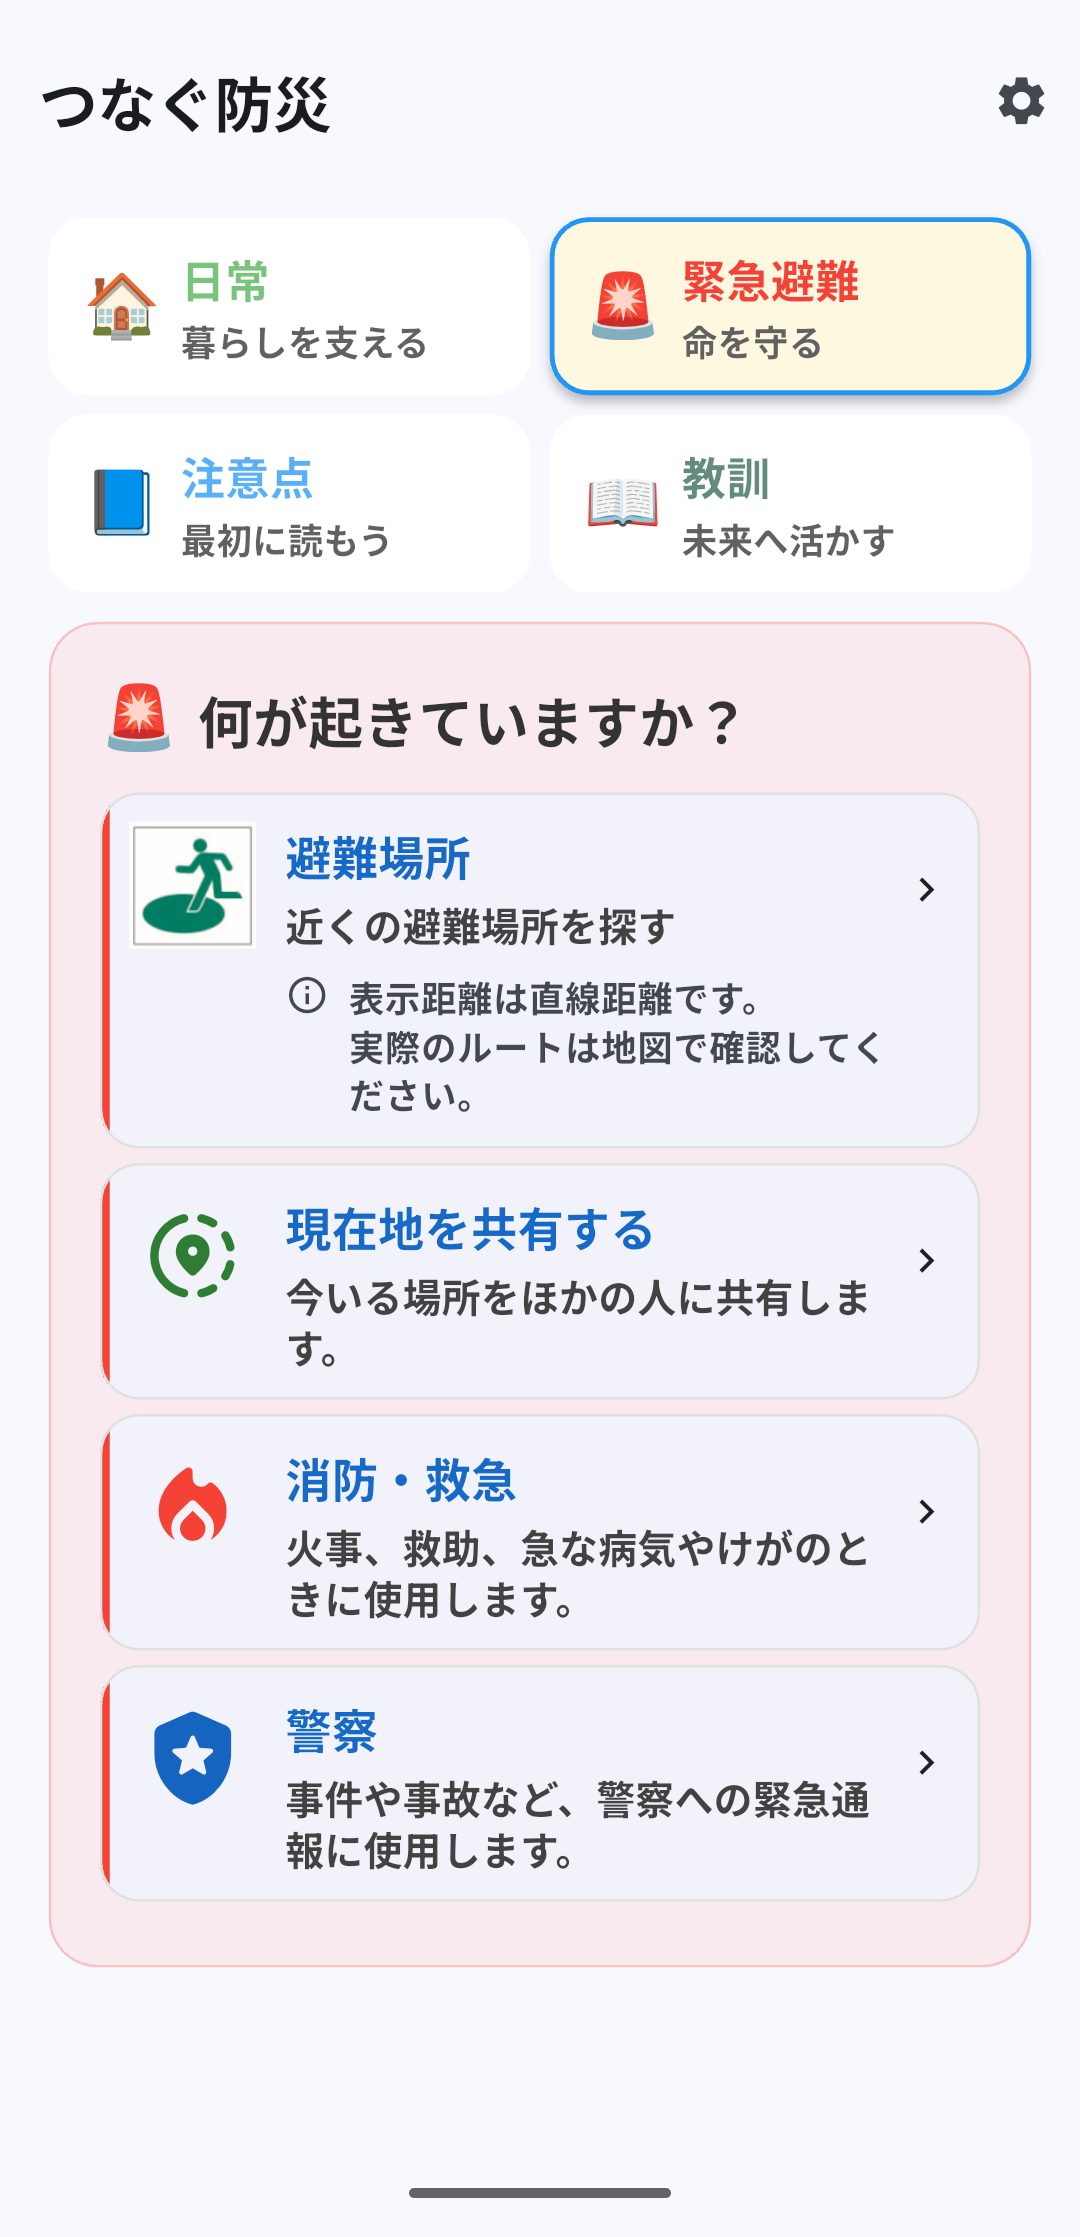
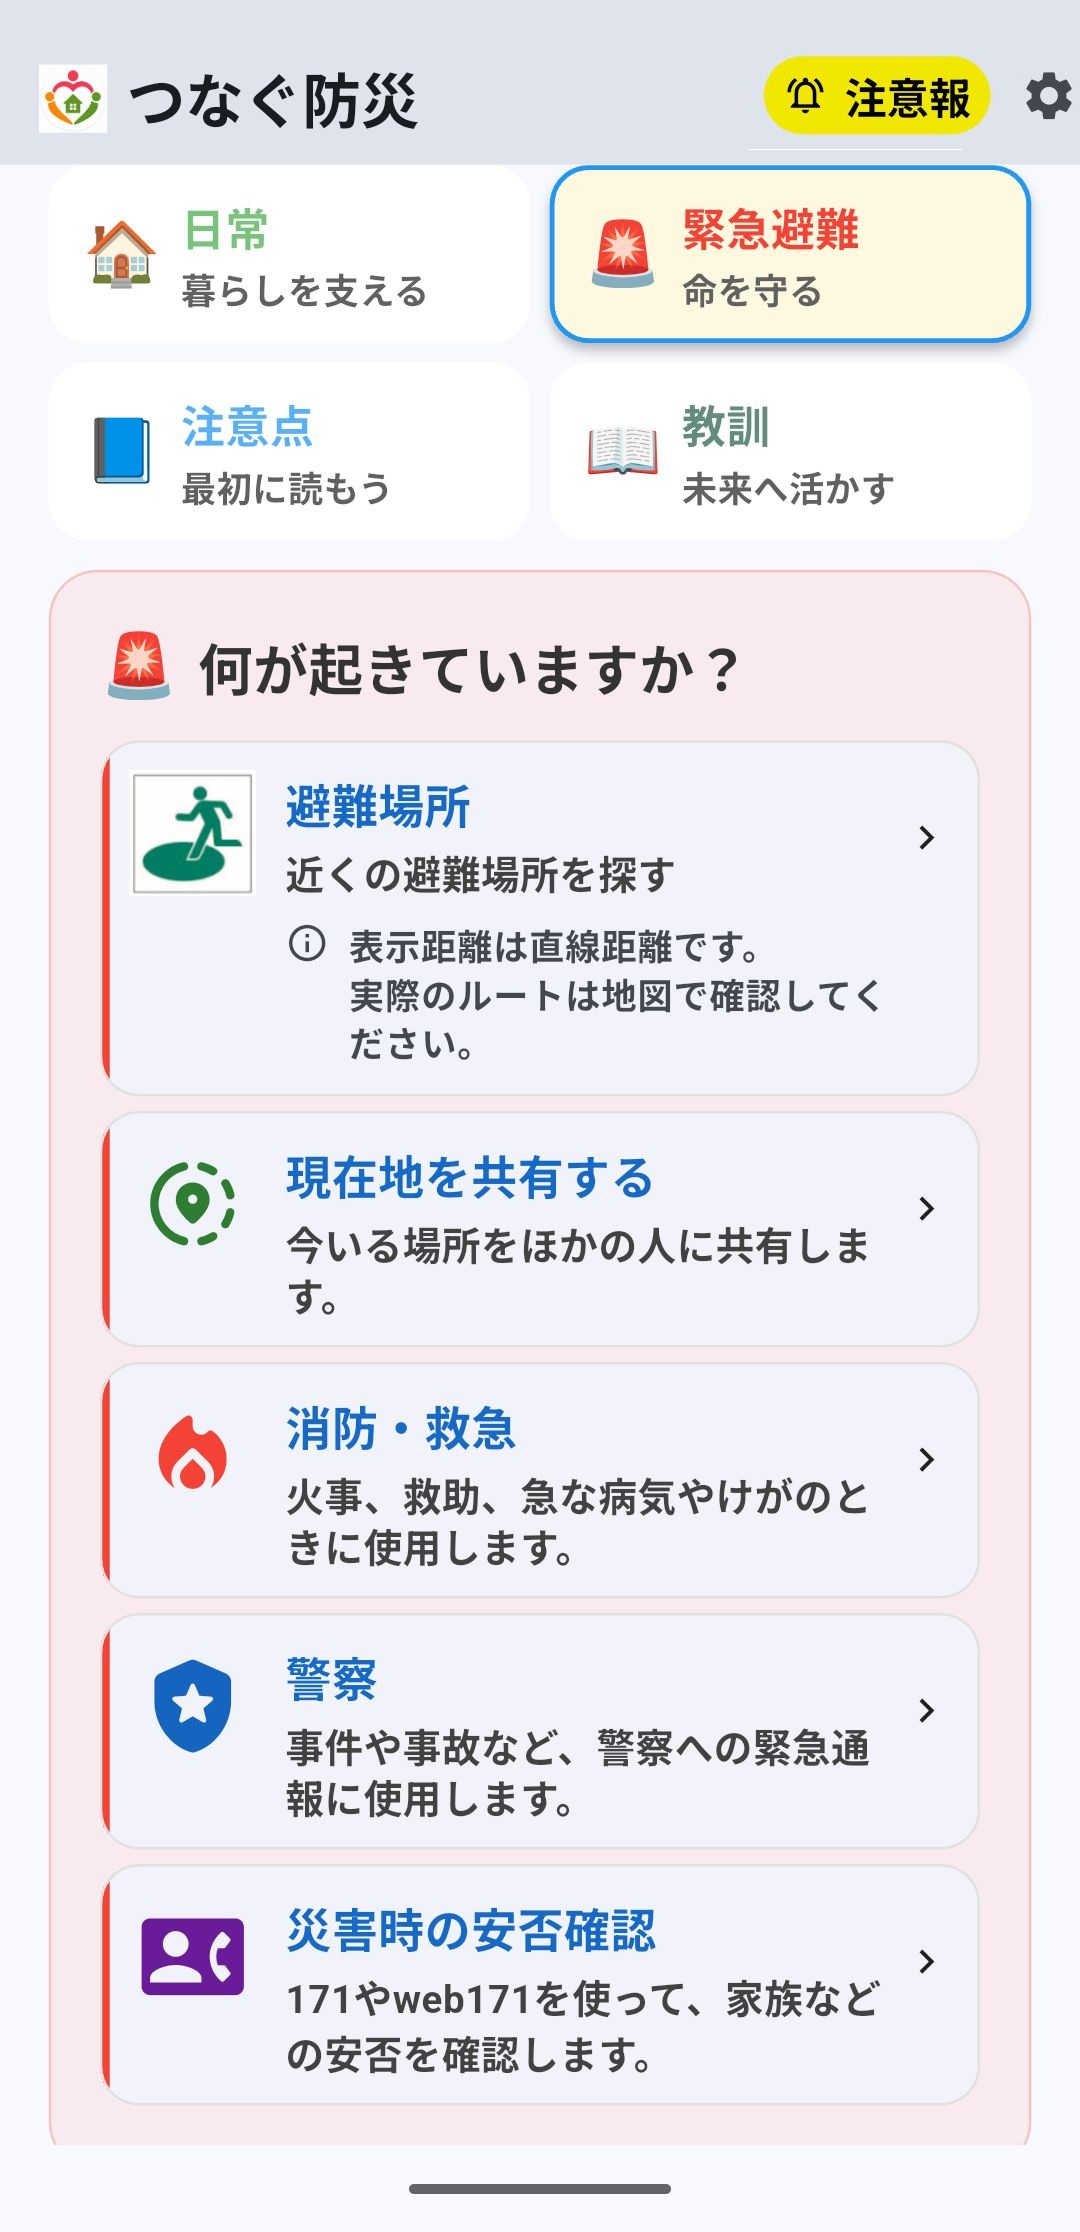
feat(web): update homepage for Android v1.1.0

diff --git a/index.html b/index.html
@@ -300,7 +300,7 @@
 
           <figure>
             <img
-              src="./assets/images/tsunagbosai-weather3.png"
+              src="./assets/images/tsunagubosai-weather3.png"
               alt="台風・大雨情報を確認する画面"
               class="phone-screenshot"
             >
